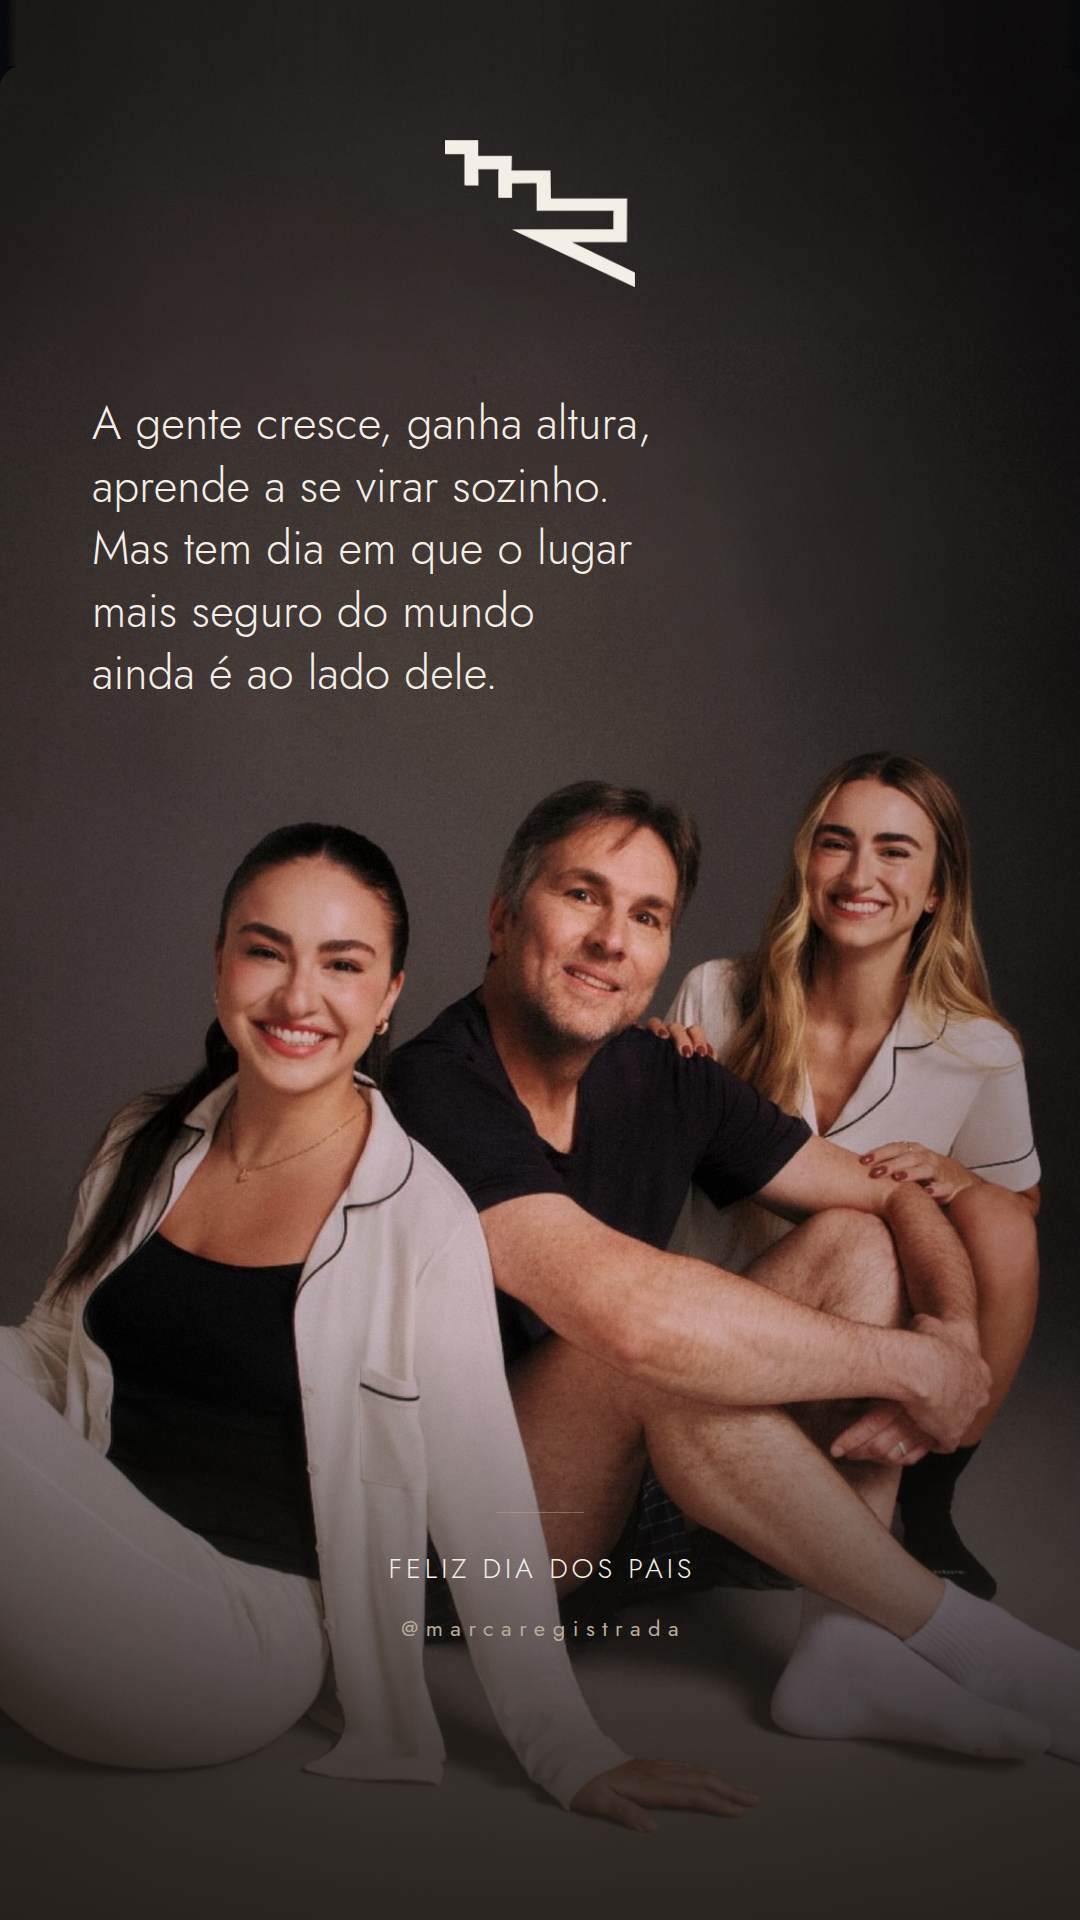
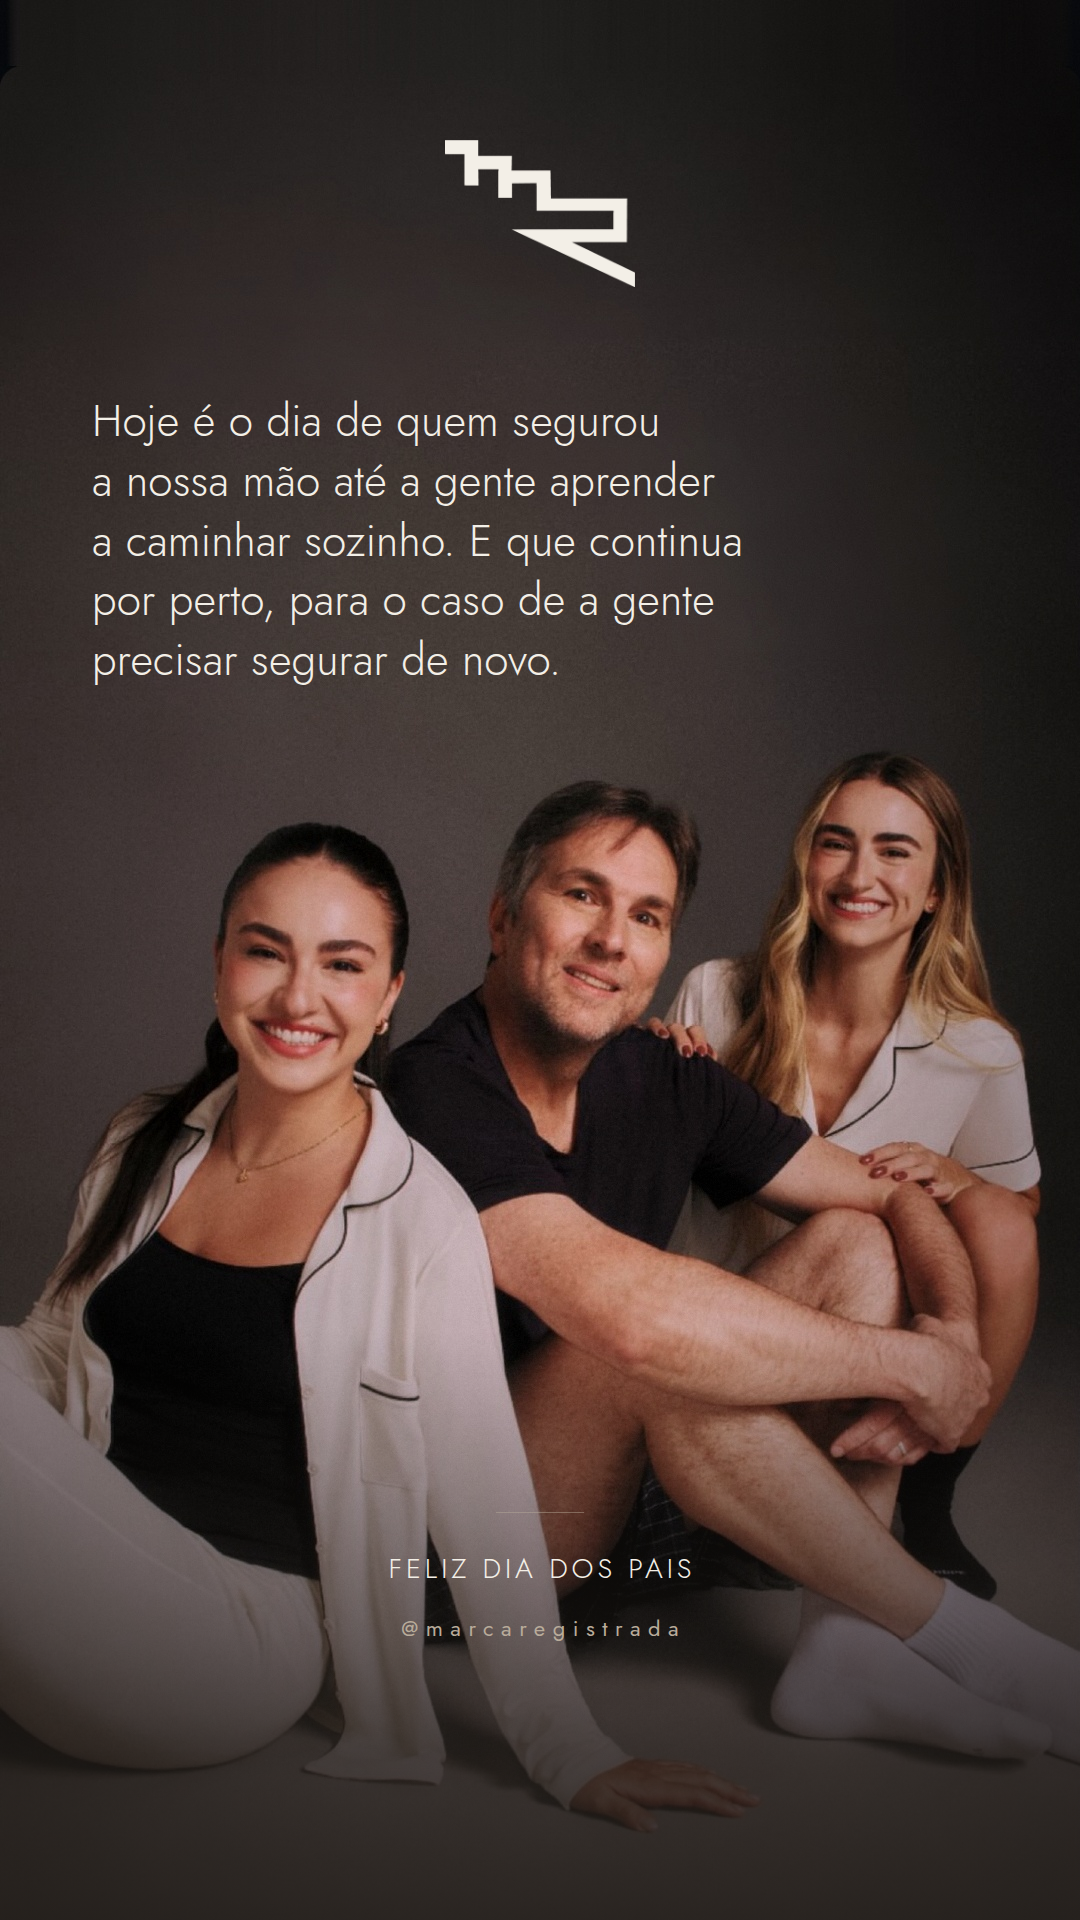
Rebuild the message around holding a hand until you can walk
Client supplied the image: the day of the one who holds our hand until we can
walk on our own. It gives the message a concrete gesture where the previous
draft only had a feeling.

Kept their framing ("hoje é o dia de quem...") and added the turn at the end —
he stays close in case we need to hold on again — so the piece lands on the
father who is still there rather than only on the one who was.

Type down to 44px; line breaks reworked so none of them splits an article from
its noun.

Changed region(s): [[0.0917, 0.2188, 0.6722, 0.375]]

diff --git a/design/dia-dos-pais-stories.html b/design/dia-dos-pais-stories.html
@@ -23,7 +23,7 @@ body{display:flex;justify-content:center;align-items:flex-start;}
 
 /* ---------------------------------------------------------- titulo */
 .msg{left:92px;top:392px;width:920px;text-align:left;text-transform:none;
-      font-weight:300;font-size:46px;line-height:1.36;letter-spacing:.004em;}
+      font-weight:300;font-size:44px;line-height:1.36;letter-spacing:.004em;}
 
 /* ---------------------------------------------------------- assinatura */
 .regua2{left:496px;top:1512px;width:88px;height:1px;
@@ -44,7 +44,7 @@ body{display:flex;justify-content:center;align-items:flex-start;}
[1 lines of base64/hex data omitted]
        alt="Marca Registrada">
 
-  <div class="msg">A gente cresce, ganha altura,<br>aprende a se virar sozinho.<br>Mas tem dia em que o lugar<br>mais seguro do mundo<br>ainda é ao lado dele.</div>
+  <div class="msg">Hoje é o dia de quem segurou<br>a nossa mão até a gente aprender<br>a caminhar sozinho. E que continua<br>por perto, para o caso de a gente<br>precisar segurar de novo.</div>
 
   <div class="regua2"></div>
   <div class="assina">Feliz Dia dos Pais</div>

diff --git a/design/src/build_pais.py b/design/src/build_pais.py
@@ -15,11 +15,11 @@ W, H = 1080, 1920
 # Mensagem em caixa alta e baixa: texto longo em versal nao se le. A caixa
 # alta tracked fica so na assinatura. As quebras sao manuais, para controlar
 # o rio do paragrafo.
-MENSAGEM = ['A gente cresce, ganha altura,',
-            'aprende a se virar sozinho.',
-            'Mas tem dia em que o lugar',
-            'mais seguro do mundo',
-            'ainda é ao lado dele.']
+MENSAGEM = ['Hoje é o dia de quem segurou',
+            'a nossa mão até a gente aprender',
+            'a caminhar sozinho. E que continua',
+            'por perto, para o caso de a gente',
+            'precisar segurar de novo.']
 ASSINA   = 'Feliz Dia dos Pais'
 ARROBA   = '@marcaregistrada'
 
@@ -182,7 +182,7 @@ body{{display:flex;justify-content:center;align-items:flex-start;}}
 
 /* ---------------------------------------------------------- titulo */
 .msg{{left:92px;top:392px;width:920px;text-align:left;text-transform:none;
-      font-weight:300;font-size:46px;line-height:1.36;letter-spacing:.004em;}}
+      font-weight:300;font-size:44px;line-height:1.36;letter-spacing:.004em;}}
 
 /* ---------------------------------------------------------- assinatura */
 .regua2{{left:496px;top:1512px;width:88px;height:1px;
